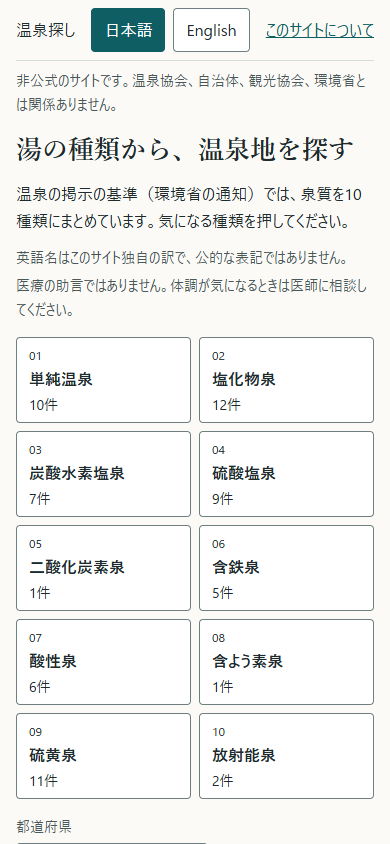
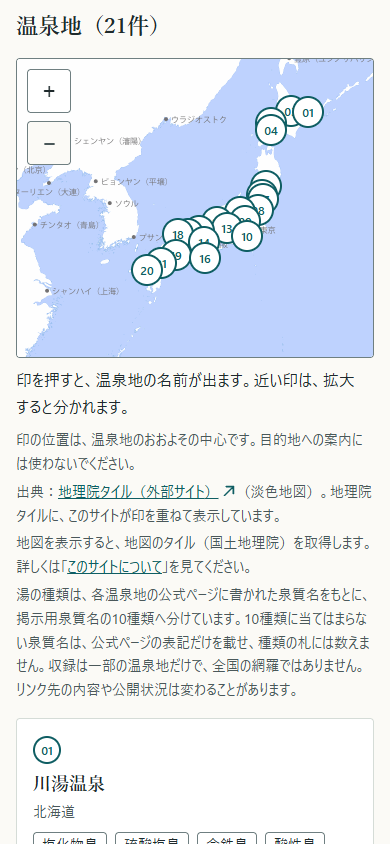
Map: README (map, tiles, Leaflet), screenshots with map, fit padding for zoom controls

diff --git a/src/map.js b/src/map.js
@@ -1,7 +1,7 @@
 // 地図（Leaflet）を扱う唯一のファイル。ほかのファイルはグローバルの L を知らない。
 // 通信は、このサイト自身の vendor/leaflet/leaflet.js と、地理院タイル（TILE_URL）の画像だけ。
 import {
-  LEAFLET_SCRIPT, MAP_BOUNDS, MAP_FIT_MAX_ZOOM, MAP_FIT_PADDING, MAP_MAX_ZOOM, MAP_MIN_ZOOM,
+  LEAFLET_SCRIPT, MAP_BOUNDS, MAP_FIT_MAX_ZOOM, MAP_FIT_PADDING, MAP_FIT_PADDING_LEFT, MAP_MAX_ZOOM, MAP_MIN_ZOOM,
   MAP_SINGLE_ZOOM, MAP_TILE_TIMEOUT_MS, TILE_URL,
 } from "./constants.js";
 import { formatPinNumber, mapView } from "./filter.js";
@@ -120,7 +120,12 @@ export function createMapView({ host, labels, onSelect, onStatus }) {
     const view = mapView(points);
     if (view.mode === "single") map.setView(view.center, MAP_SINGLE_ZOOM, { animate: false });
     else if (view.mode === "fit") {
-      map.fitBounds(view.bounds, { padding: [MAP_FIT_PADDING, MAP_FIT_PADDING], maxZoom: MAP_FIT_MAX_ZOOM, animate: false });
+      map.fitBounds(view.bounds, {
+        paddingTopLeft: [MAP_FIT_PADDING_LEFT, MAP_FIT_PADDING],
+        paddingBottomRight: [MAP_FIT_PADDING, MAP_FIT_PADDING],
+        maxZoom: MAP_FIT_MAX_ZOOM,
+        animate: false,
+      });
     }
   }
 

diff --git a/src/constants.js b/src/constants.js
@@ -13,6 +13,7 @@ export const MAP_MIN_ZOOM = 4;
 export const MAP_MAX_ZOOM = 16;
 export const MAP_BOUNDS = [[23, 121], [47, 148]]; // [[南, 西], [北, 東]]
 export const MAP_FIT_PADDING = 32;
+export const MAP_FIT_PADDING_LEFT = 72; // 左上の「＋」「－」（幅44と余白）に印が重ならないよう、左だけ広げる
 export const MAP_FIT_MAX_ZOOM = 10;
 export const MAP_SINGLE_ZOOM = 11;
 export const MAP_TILE_TIMEOUT_MS = 8000;

diff --git a/README.md b/README.md
@@ -2,8 +2,8 @@
 
 # Onsen Finder / 温泉探し
 
-**Find Japanese onsen areas by spring type. An unofficial, ad-free site that makes no requests to other sites.**<br>
-**湯の種類（泉質）から温泉地を探す、非公式のサイトです。広告はなく、ほかのサイトへの通信もしません。**
+**Find Japanese onsen areas by spring type, and see them on a map. No ads, no sign-up. The only outside requests are map tiles from GSI (Japan).**<br>
+**湯の種類（泉質）から温泉地を探し、地図でも見られる非公式のサイトです。広告も登録もなく、通信するのは地図のタイル（国土地理院）のみ。**
 
 [![License: MIT](https://img.shields.io/badge/license-MIT-green.svg)](LICENSE)
 [![Live site](https://img.shields.io/badge/live-GitHub%20Pages-2f6f62.svg)](https://r38k51.github.io/onsen-guide/)
@@ -12,7 +12,7 @@
 
 [English](#english) · [日本語](#日本語)
 
-<img src="docs/screenshot-390-ja.png" alt="First screen on a phone (390 px wide) / スマホ（幅390px）の最初の画面" width="280">
+<img src="docs/screenshot-390-ja.png" alt="Map and area list on a phone (390 px wide) / スマホ（幅390px）の地図と一覧" width="280">
 <img src="docs/screenshot-1366-en.png" alt="English screen on a computer (1366 px wide) / パソコン（幅1366px）の英語の画面" width="560">
 
 <sub>Screens of the real site with its real data (some onsen areas only). / 実際のサイトと実際の収録データの画面です（収録は一部の温泉地だけです）。</sub>
@@ -26,17 +26,19 @@
 > [!NOTE]
 > This is an unofficial site made by an individual. It is not affiliated with the Japan Onsen Association, the Ministry of the Environment, local governments, tourism associations, or lodgings. The classification is based on Ministry of the Environment documents, summarized and edited by this site. The Ministry did not make this site.
 >
-> Tested only with the Chromium bundled with Playwright 1.64.1 (automated tests, screen widths of 390, 768, 1366 and 1920 px). Not tested on real phones, other browsers, or other operating systems.
+> Tested only with the Chromium bundled with Playwright 1.64.1 (automated tests, screen widths of 390, 768, 1024, 1366 and 1920 px). Not tested on real phones, other browsers, or other operating systems.
 
 ### Features
 
 - Pick one of the 10 spring types used on onsen signs, and see the onsen areas listed for that type.
 - Filter by prefecture too.
+- A map shows where the listed onsen areas are. Pins carry numbers that match the numbers on the cards. The map works with the keyboard too.
 - Each area links to its official page, so you can check the details there.
 - English and Japanese. English names are our own translations, not official terms.
 - No ads, no bookings, no ratings, no prices, and no sign-up.
 - It does not list effects or indications, and gives no medical advice.
 - No cookies and no local storage. The language is kept in the page address (`#/?lang=en`).
+- The pin positions are the approximate center of each area. Do not use them for navigation.
 
 ### Requirements
 
@@ -56,13 +58,14 @@ npm run validate    # data and static checks
 npm run test:e2e    # browser tests (Playwright)
 ```
 
-<img src="docs/screenshot-390-selected.png" alt="After choosing "Radioactive spring": the description and the area list / 「放射能泉」を選んだ後の説明と一覧" width="280">
+<img src="docs/screenshot-390-selected.png" alt="After choosing 'Radioactive spring': the description, the map and the area list / 「放射能泉」を選んだ後の説明、地図、一覧" width="280">
 
 ### FAQ and limits
 
-- **Does it send my data anywhere?** The page loads only its own files. It does not call other sites and has no analytics. Links to official pages open only when you click them, and those sites have their own policies. The browser tests found no requests to other sites.
+- **Does it send my data anywhere?** The page loads its own files and, when the map is shown, map tiles for the visible area from the Geospatial Information Authority of Japan (GSI). GSI can see your IP address and the area you view. There is no analytics. Links to official pages open only when you click them, and those sites have their own policies. The browser tests allow requests only to this site and to GSI map tiles.
 - **Privacy.** The site is hosted on GitHub Pages. GitHub records the IP address of visitors under its own policy. The site itself keeps nothing.
 - Only some onsen areas are included (21 at the time of writing). This is not a complete list of onsen in Japan.
+- Place names on the map are in Japanese, even when the site is in English. Pins close together overlap when the whole country is shown; zoom in to separate them.
 - Some spring types have few areas listed. For example, "Carbon dioxide spring" and "Iodine-containing spring" have one each.
 - Spring types follow each area's official page and the Ministry of the Environment classification tables. Please check signs and official pages at the place. Linked pages may change or disappear.
 
@@ -70,11 +73,14 @@ npm run test:e2e    # browser tests (Playwright)
 
 - `data/classification.json` (spring-type classification) was made from the Ministry of the Environment's "Guidelines for Mineral Spring Analysis" (revised 2014, 鉱泉分析法指針) and the notice on the signs required by Article 18 of the Hot Springs Act. Both are linked on the site's About screen.
 - `data/onsen.json` (onsen areas) copies the spring-type names from the official pages of tourism associations and local governments, word for word. Each entry has its source URL and the date we checked it.
+- Pin positions (`position` in `data/onsen.json`) are the approximate center of each area. Each entry gives its source: a Wikidata coordinate (CC0) or a position read by hand from the area's address on its official page. OpenStreetMap data is not used.
+- The map images are GSI Tiles (Pale map) from the Geospatial Information Authority of Japan (<https://maps.gsi.go.jp/development/ichiran.html>). They are not stored or edited by this site; the site only overlays pins.
+- Third-party: [Leaflet](https://leafletjs.com/) 1.9.4 (BSD-2-Clause, Copyright Volodymyr Agafonkin and CloudMade) is bundled in `vendor/leaflet/` with its license file.
 - The Ministry of the Environment materials are used under the Public Data License, version 1.0 (PDL 1.0). Created by processing "Mineral Spring Analysis Guidelines (revised 2014)" (Ministry of the Environment) (https://www.env.go.jp/nature/onsen/docs/shishin_bunseki.pdf) and the notice on "Standards for posting contraindications and bathing or drinking precautions under Article 18, paragraph 1 of the Hot Springs Act" (Ministry of the Environment) (https://www.env.go.jp/nature/onsen/pdf/2-5_p_11.pdf). It was not made by the Ministry of the Environment.
 
 ### License
 
-MIT. See [LICENSE](LICENSE). The MIT license covers only this site's code. The rights to the data belong to each source.
+MIT. See [LICENSE](LICENSE). The MIT license covers only this site's code. The rights to the data belong to each source. Leaflet in `vendor/leaflet/` is under its own license (BSD-2-Clause).
 
 ---
 
@@ -85,17 +91,19 @@ MIT. See [LICENSE](LICENSE). The MIT license covers only this site's code. The r
 > [!NOTE]
 > これは個人が作った非公式のサイトです。日本温泉協会、環境省、自治体、観光協会、宿泊施設とは関係がありません。泉質の分類は環境省の資料をもとに、このサイトで要約・編集したものです。環境省が作ったものではありません。
 >
-> 確かめた環境は、Playwright 1.64.1 に付属の Chromium だけです（自動テスト、画面の幅390、768、1366、1920px）。実際のスマホ、ほかのブラウザ、ほかのOSでは確かめていません。
+> 確かめた環境は、Playwright 1.64.1 に付属の Chromium だけです（自動テスト、画面の幅390、768、1024、1366、1920px）。実際のスマホ、ほかのブラウザ、ほかのOSでは確かめていません。
 
 ### 特徴
 
 - 温泉の掲示に使われる10種類の湯の種類（泉質）から1つ選ぶと、その種類の温泉地が一覧で出ます。
 - 都道府県でも絞り込めます。
+- 地図に、一覧にある温泉地の場所を印で出します。印の番号は、カードの番号と同じです。地図はキーボードでも使えます。
 - 各温泉地に公式ページへのリンクがあり、詳しいことはそちらで確かめられます。
 - 日本語と英語に対応しています。英語名は、このサイト独自の訳です。公的な表記ではありません。
 - 広告、予約、評価、料金、登録はありません。
 - 効能や適応症は載せておらず、医療の助言もしません。
 - Cookie もブラウザの保存領域も使いません。言語は、ページのアドレス（`#/?lang=ja` の形）に入ります。
+- 印の位置は、温泉地のおおよその中心です。目的地への案内には使わないでください。
 
 ### 必要なもの
 
@@ -115,13 +123,14 @@ npm run validate    # データと静的な検査
 npm run test:e2e    # ブラウザのテスト（Playwright）
 ```
 
-<img src="docs/screenshot-390-selected.png" alt="After choosing "Radioactive spring": the description and the area list / 「放射能泉」を選んだ後の説明と一覧" width="280">
+<img src="docs/screenshot-390-selected.png" alt="After choosing 'Radioactive spring': the description, the map and the area list / 「放射能泉」を選んだ後の説明、地図、一覧" width="280">
 
 ### よくある質問と制限
 
-- **データはどこかに送られますか？** ページが読み込むのは、このサイト自身のファイルだけです。ほかのサイトへの通信と、アクセス解析はありません。公式ページへのリンクは、押したときだけ開きます。開いた先のサイトには、そのサイトの規約があります。ブラウザのテストでも、ほかのサイトへの通信は見つかりませんでした。
+- **データはどこかに送られますか？** ページが読み込むのは、このサイト自身のファイルと、地図を表示したときの地図のタイル（国土地理院）です。国土地理院には、あなたのIPアドレスと表示している範囲が見えます。アクセス解析はありません。公式ページへのリンクは、押したときだけ開きます。開いた先のサイトには、そのサイトの規約があります。ブラウザのテストでは、このサイトと地理院タイル以外への通信がないことを確かめています。
 - **プライバシー。** このサイトは GitHub Pages で公開しています。見た人のIPアドレスは、GitHub がその規約に従って記録します。サイト自体は何も保存しません。
 - 収録は一部の温泉地だけです（書いた時点で21件）。全国の網羅ではありません。
+- 地図の地名は、サイトを英語にしても日本語のままです。日本全体を表示すると近い印は重なります。拡大すると分かれます。
 - 温泉地が少ない湯の種類があります。たとえば「二酸化炭素泉」と「含よう素泉」は、1件ずつです。
 - 湯の種類は、各温泉地の公式ページと、環境省の分類表に基づいています。現地の掲示と公式ページで確かめてください。リンク先は、変わったり、なくなったりすることがあります。
 
@@ -129,8 +138,11 @@ npm run test:e2e    # ブラウザのテスト（Playwright）
 
 - `data/classification.json`（湯の種類の分類）は、環境省の「鉱泉分析法指針（平成26年改訂）」と、温泉法第18条の掲示の基準についての通知をもとに作りました。2つとも、サイトの「このサイトについて」の画面にリンクがあります。
 - `data/onsen.json`（温泉地）は、各観光協会・自治体の公式ページにある泉質名を、原文のまま写したものです。1件ごとに、出典のURLと確認日があります。
+- 印の位置（`data/onsen.json` の `position`）は、温泉地のおおよその中心です。1件ごとに、出典として Wikidata の座標（CC0）か、公式ページの所在地から手で読み取った位置を書いています。OpenStreetMap のデータは使っていません。
+- 地図の画像は、国土地理院の「地理院タイル（淡色地図）」です（<https://maps.gsi.go.jp/development/ichiran.html>）。このサイトでは保存も加工もせず、印を重ねて表示するだけです。
+- 外部の部品：[Leaflet](https://leafletjs.com/) 1.9.4（BSD-2-Clause、Copyright Volodymyr Agafonkin、CloudMade）を `vendor/leaflet/` に、ライセンスのファイルとともに同梱しています。
 - 環境省の資料は、公共データ利用規約（第1.0版）に従って使っています。「鉱泉分析法指針（平成26年改訂）」（環境省）（https://www.env.go.jp/nature/onsen/docs/shishin_bunseki.pdf）、「温泉法第18条第1項の規定に基づく禁忌症及び入浴又は飲用上の注意の掲示等の基準」の通知（環境省）（https://www.env.go.jp/nature/onsen/pdf/2-5_p_11.pdf）を加工して作成。環境省が作成したものではありません。
 
 ### ライセンス
 
-MIT です。[LICENSE](LICENSE) を見てください。MIT はこのサイトのコードに対するものです。データの権利は、それぞれの出典にあります。
+MIT です。[LICENSE](LICENSE) を見てください。MIT はこのサイトのコードに対するものです。データの権利は、それぞれの出典にあります。`vendor/leaflet/` の Leaflet は、Leaflet 自身のライセンス（BSD-2-Clause）です。
